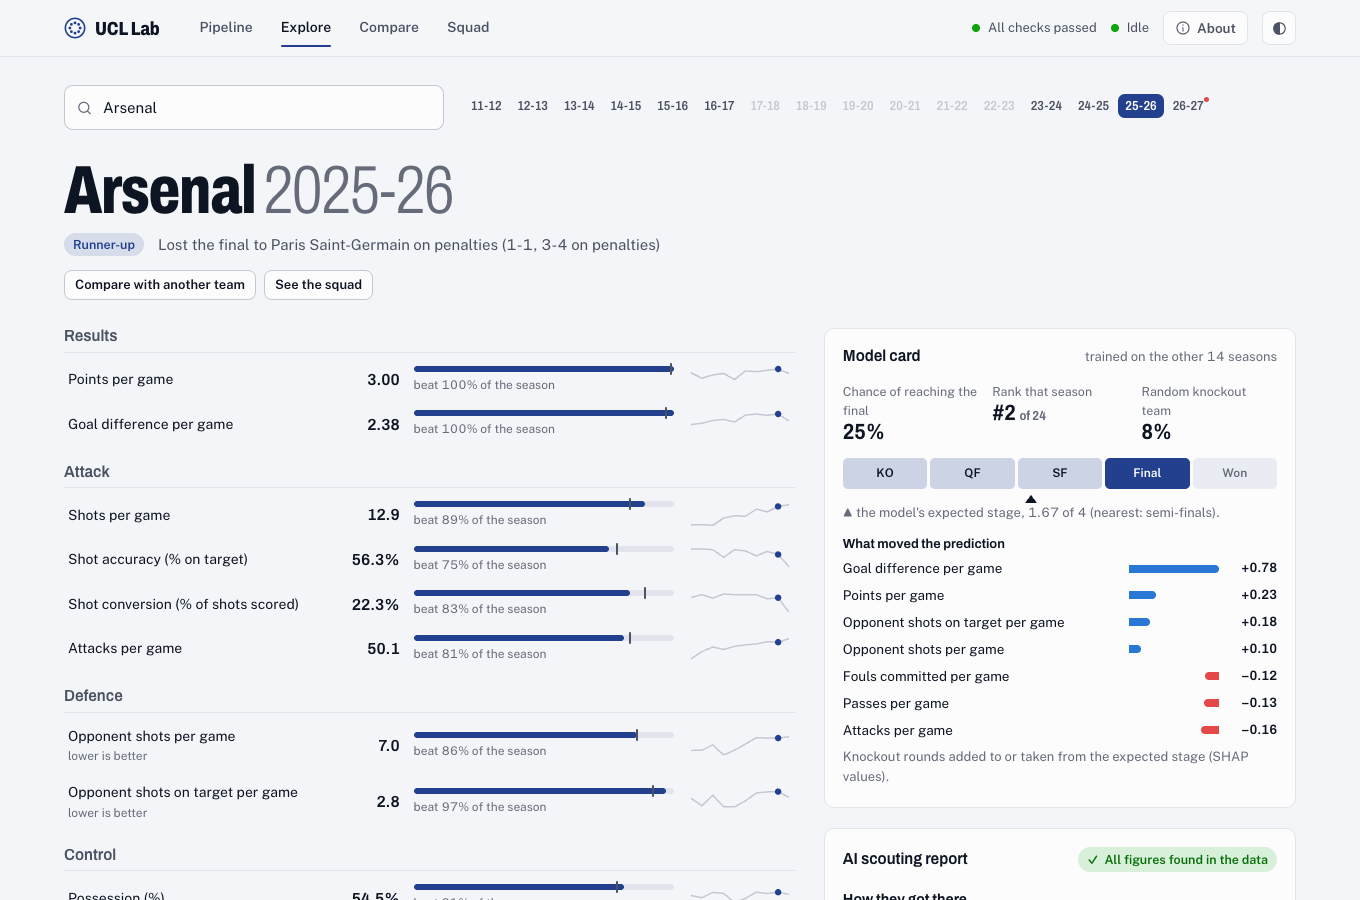
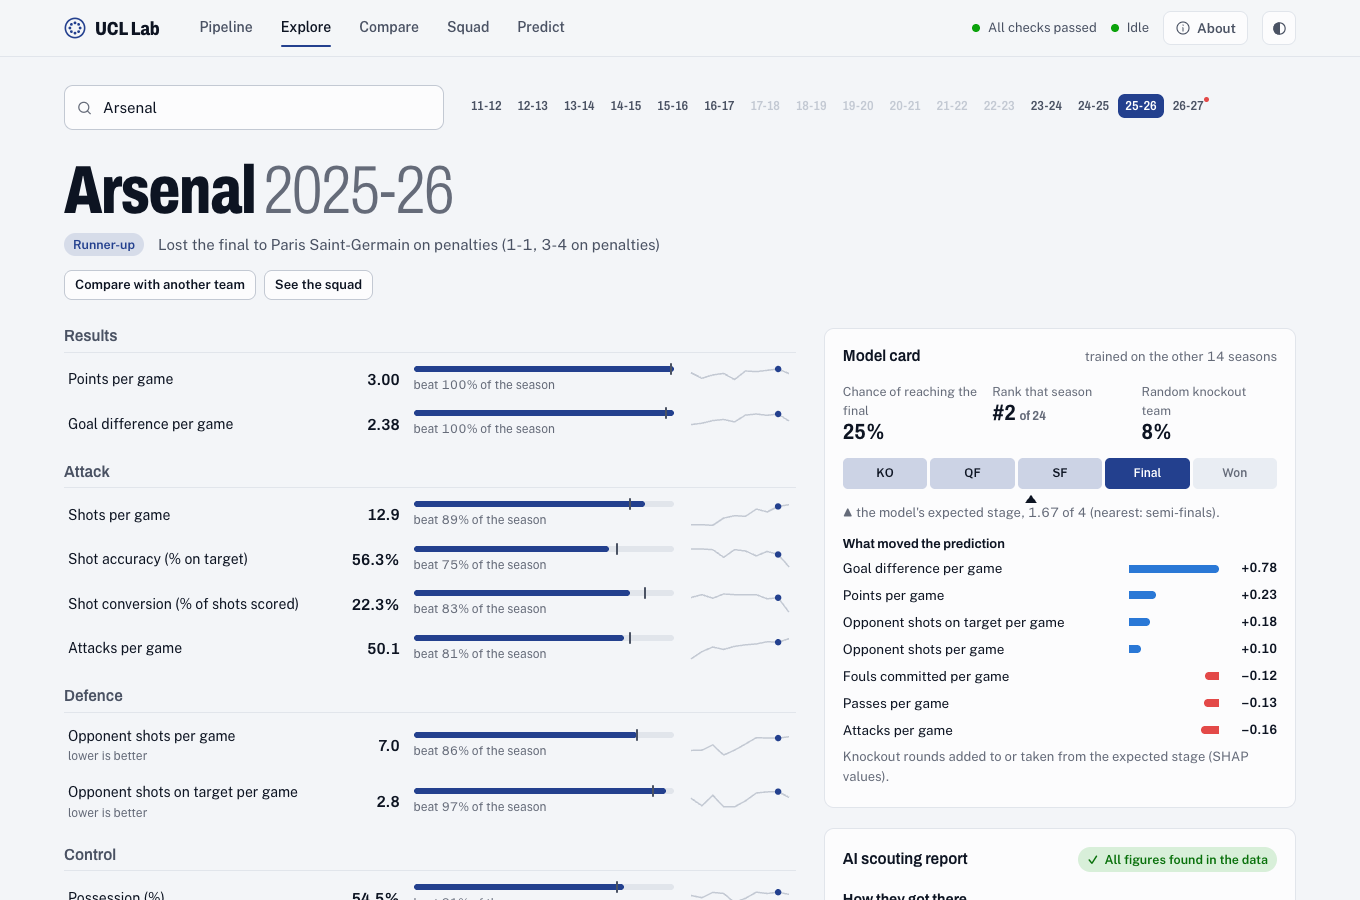
docs: predictions in the README, the walkthrough and the screenshots

diff --git a/scripts/screenshots.py b/scripts/screenshots.py
@@ -26,6 +26,7 @@ SHOTS = [  # name, hash route, a selector that appears once the screen has its d
     ("compare", "#/compare?a=52280:2026&b=52747:2026", ".mirror-row"),  # against PSG, the final
     ("squad", "#/squad?t=52280&s=2026&stat=goals&p=250106939", ".player-panel table"),  # Saka selected
     ("pipeline", "#/pipeline", ".checks-head p"),
+    ("predict", "#/predict", ".h2h .figures"),
 ]
 
 

diff --git a/README.md b/README.md
@@ -40,7 +40,7 @@ Run `make` to list every command. [CONTRIBUTING.md](CONTRIBUTING.md) explains ho
 | [`data/llm_cache/`](data/llm_cache) | Every answer the local LLM gave, saved under its exact request, so reruns replay them |
 | [`out/`](out) | Model outputs, the AI write-ups (`analysis.json`) and the report |
 | [`docs/`](docs) | [How it works](docs/how-it-works.md), the design specs and the implementation plans |
-| [`scripts/`](scripts) | Standings check against UEFA, and the README screenshots |
+| [`scripts/`](scripts) | Standings check against UEFA, the forecast's tuning and test, and the README screenshots |
 | [`tasks/todo.md`](tasks/todo.md) | Build log and review notes |
 
 ## How it works
@@ -89,13 +89,17 @@ the process and how to read each screen.
 
 | Explore | Compare |
 |-|-|
-| ![Explore: Arsenal 2025-26, with each stat's share of teams beaten, the model card and the AI scouting report](docs/images/explore.png) | ![Compare: Arsenal and Paris Saint-Germain 2025-26, stat by stat](docs/images/compare.png) |
-| Search any club, pick a season and see the share of that season's teams it beat on each stat, with its trend, the model card and the AI scouting report. Nicknames like "PSG" or "Barca" work. | Two team-seasons from any seasons, stat by stat. Each bar is the team's distance from its own season's average, so different eras compare fairly. |
+| ![Explore: Arsenal 2025-26, with each stat's share of teams beaten, the model card and the AI scouting report](docs/images/explore.png) | ![Compare: Arsenal and Paris Saint-Germain 2025-26, who would win if they met, then stat by stat](docs/images/compare.png) |
+| Search any club, pick a season and see the share of that season's teams it beat on each stat, with its trend, the model card and the AI scouting report. Nicknames like "PSG" or "Barca" work. | Two team-seasons from any seasons. First who would win if they met (one match, two legs, a final) and which club is likelier to win this season's Champions League, then stat by stat: each bar is the team's distance from its own season's average, so different eras compare fairly. |
 
 | Squad | Pipeline |
 |-|-|
 | ![Squad: Arsenal 2025-26 on the pitch, with Bukayo Saka's numbers and history](docs/images/squad.png) | ![Pipeline: the pre-run checks, run controls, stage rail, counters and event log](docs/images/pipeline.png) |
 | The squad on the pitch. Circles grow with minutes and glow with the chosen stat, per 90 for counts. Pick a player for their numbers at every club since 2011-12. | Run every stage or one at a time and watch it live. **Before you run** checks LM Studio, the UEFA feeds, the saved data and the dashboard build, and says how to fix anything that isn't ready. |
+
+| Predict | |
+|-|-|
+| ![Predict: every club's chance of winning the 2026-27 Champions League, with the round-by-round odds](docs/images/predict.png) | Who wins the 2026-27 Champions League: each club's chance of reaching every round, from 20,000 simulations of the rest of the season. Below it, a head-to-head between any two team-seasons (one match, a two-legged tie and a final) and how well these odds did on past seasons. Compare shows the same head-to-head for its two teams. |
 
 The live season (2026-27) is built in memory from UEFA's feeds, refreshed every six hours and never used to train
 the model. Squads are cached in `data/raw/players/`.
@@ -132,6 +136,11 @@ the model's top-two pick in their season.
   the direction in at least 12 of 15 seasons, and the stat points the same way on its own. *Conditional:* the
   direction holds only with the other stats held fixed. *Model-dependent:* the logistic model disagrees too often.
 - **Winners vs runners-up.** Sign tests over the 15 finals, with a Holm adjustment across the 15 stats.
+- **Predictions.** Elo ratings from every Champions League match, pulled toward the club coefficient each season, feed
+  a Poisson goals model with one version per stage: the deeper the round, the less a rating gap counts. Title odds
+  come from 20,000 simulations of the rest of the season under UEFA's format. Tuned on 2013-14 to 2018-19 and tested on
+  the seven seasons after: the likeliest result happened in 58% of matches, and the eventual winner had 11% on average
+  when the knockouts began, against 6% for a random pick. [How it works](docs/how-it-works.md#predictions).
 - **Local AI.** The LLM sees only a plain-English fact sheet. Each answer is checked for its structure, for
   numbers that aren't in the facts and for wording slips: significance words in team reports, length, the wrong
   name for the first phase, or the final placed inside it. One retry fixes what it can, and the better answer is

diff --git a/docs/how-it-works.md b/docs/how-it-works.md
@@ -82,6 +82,43 @@ Code: `src/ucl/report.py`, `src/ucl/charts.py`.
 - **Player index** downloads every squad since 2011-12 (524 tables), so a player's seasons line up across all
   their clubs.
 
+## Predictions
+
+The **Predict** screen and the **If they met** card on Compare share one model, in `src/ucl/forecast.py`.
+
+- **Ratings.** Every Champions League match since 2011-12 moves an Elo rating per club: a win against the odds moves
+  it further than an expected one, and a bigger margin moves it a little further still. Each season starts by pulling a
+  club's rating 10% of the way back toward a prior set by its UEFA club coefficient, once for every season since it
+  last played, so a newcomer starts at its prior.
+- **Goals.** A rating gap becomes expected goals for each side (a Poisson model), which gives the chance of each score.
+  There are three versions, fitted on past matches: the group stage and league phase, the play-offs and round of 16,
+  and the quarter-finals onward. The deeper the round, the less a rating gap is worth. On seasons it wasn't fitted
+  on, this forecasts knockout matches better than one model for everything.
+- **Simulation.** Title odds come from playing the rest of the season 20,000 times: the league-phase table with
+  UEFA's tie-breakers, the knockout play-offs (9th-10th against 23rd-24th and so on), the round of 16 (1st-2nd against
+  the winners of the 15th-18th play-offs and so on) and the bracket, in which each half holds one club from each
+  seeding pair. Rounds already drawn use the real ties and any legs already played.
+- **Head to head.** One match uses the league-phase model, at a neutral venue or at either club's ground. A two-legged
+  tie uses the round-of-16 model and a final the late-round model. A past team-season is rated as it finished that
+  season, so two eras can meet.
+
+**How good is it?** The settings were tuned on 2013-14 to 2018-19 and tested on 2019-20 to 2025-26:
+
+| Test | Result |
+|-|-|
+| The likeliest 90-minute result happened | 58% of 997 matches |
+| Log loss of win/draw/loss chances (lower is better) | 0.925, against 1.008 from club coefficients alone and 1.040 from base rates |
+| Favourites going through two-legged ties | 67% of 108, when the model said 69% |
+| The eventual winner's chance when the knockouts began | 11% on average, against 6% for a random pick |
+
+The favourite won none of those seven seasons: knockout football is close to a coin flip between the best clubs. The
+ratings see only Champions League matches, so a club that dominates its group rates highly (Bayern München was the
+favourite in five of the seven). They know nothing of domestic form, injuries or transfers. Ratings stay fixed within a
+simulated season, penalties are a coin flip, and between the round-of-16 draw and the quarter-final fixtures the
+bracket's halves are drawn at random.
+
+`uv run python scripts/tune_forecast.py` reruns the tuning and the test.
+
 ## Reading the screens
 
 - **Pipeline** shows each stage as it runs, with live counters and the log. *Before you run* checks LM Studio,
@@ -95,6 +132,8 @@ Code: `src/ucl/report.py`, `src/ucl/charts.py`.
   and better always points outward.
 - **Squad:** circles grow with minutes played and glow brighter with the stat you pick. Counts are per 90 minutes,
   so substitutes and starters compare fairly.
+- **Predict:** each club's chance of reaching every round and of winning the trophy, a head-to-head between any two
+  team-seasons, and how well these odds did on past seasons. Compare shows the same head-to-head for its two teams.
 
 ## What it found
 

diff --git a/tasks/todo.md b/tasks/todo.md
@@ -106,3 +106,24 @@ built straight from the spec overnight, as asked).
 - `out/report*.html` regenerated from the committed `analysis.json`; `uv run ucl report` reproduces them byte for byte.
 - Made public on 2026-10-02 at the user's request. Before that, the history was rewritten so every commit uses the
   GitHub noreply address instead of a personal email, and the code got an MIT license (UEFA's data excluded).
+
+
+# Predictions: title odds and head to head (2026-10-02)
+
+- [x] `src/ucl/forecast.py`: Elo ratings from every match since 2011-12 (season pull toward the coefficient prior),
+      Poisson goals models for the league phase, early and late knockouts, analytic head-to-heads, and a vectorised
+      simulation of a season under UEFA's format (league table, play-off and round-of-16 seeding, bracket halves)
+- [x] Tuning on 2013-14 to 2018-19, test on 2019-20 to 2025-26 (`scripts/tune_forecast.py`), track record in the UI
+- [x] `/api/forecast` and `/api/forecast/h2h`, rebuilt when the dataset or the live season changes
+- [x] Predict screen (title odds, head to head, track record) and the "If they met" card on Compare
+
+## Review (predictions)
+
+- Test seasons: likeliest result right in 58% of 997 matches; log loss 0.925 against 1.008 (coefficient only) and 1.040
+  (base rates). Two-legged ties: favourites went through 67%, predicted 69%. Title odds when the knockouts began: the
+  winner had 11% on average (6% for a random pick); the favourite won 0 of 7.
+- One goals model overrated favourites from the quarter-finals on (predicted 65%, actual 54%); separate stage models
+  fixed most of it (62% against 57%) and improved out-of-sample log loss. Damping big margins or weighting knockout
+  results more changed little.
+- Known bias: ratings see only Champions League matches, so group-stage dominance rates highly (Bayern was the
+  favourite in 5 of the 7 test seasons). The track record card says so.
